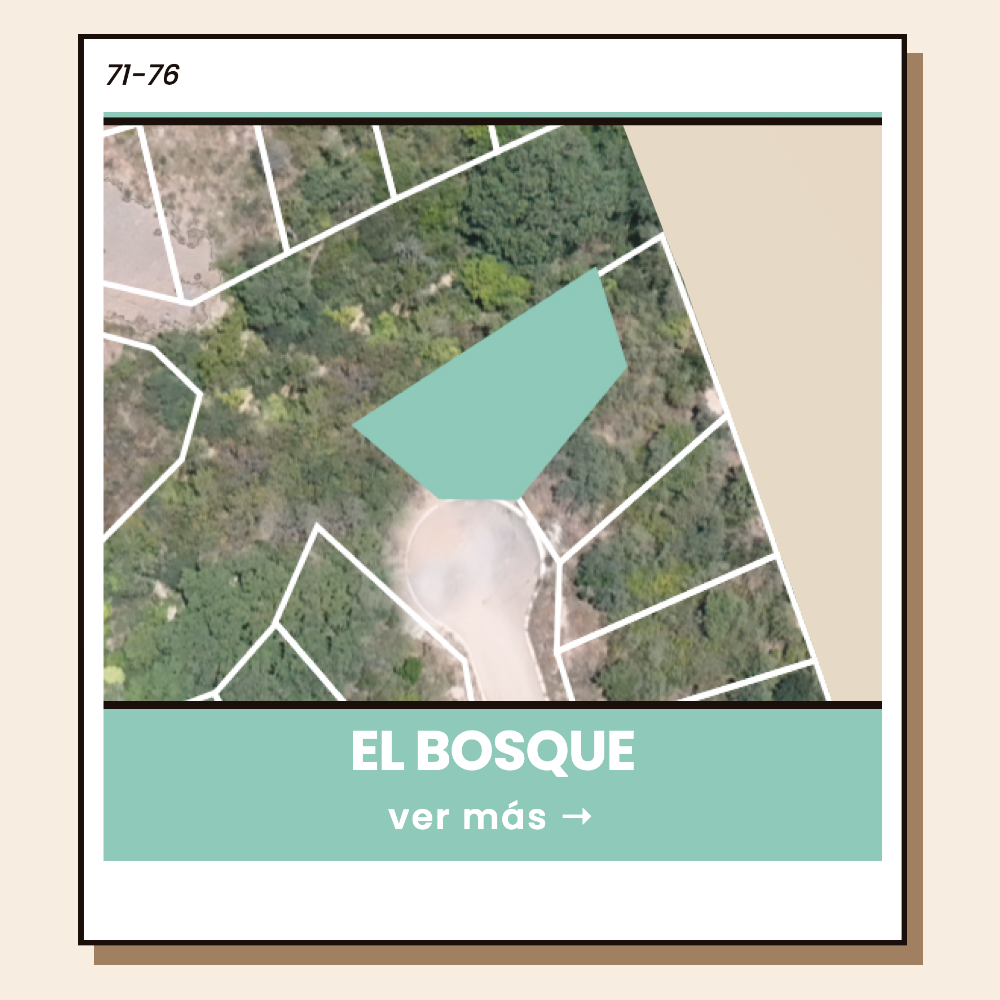
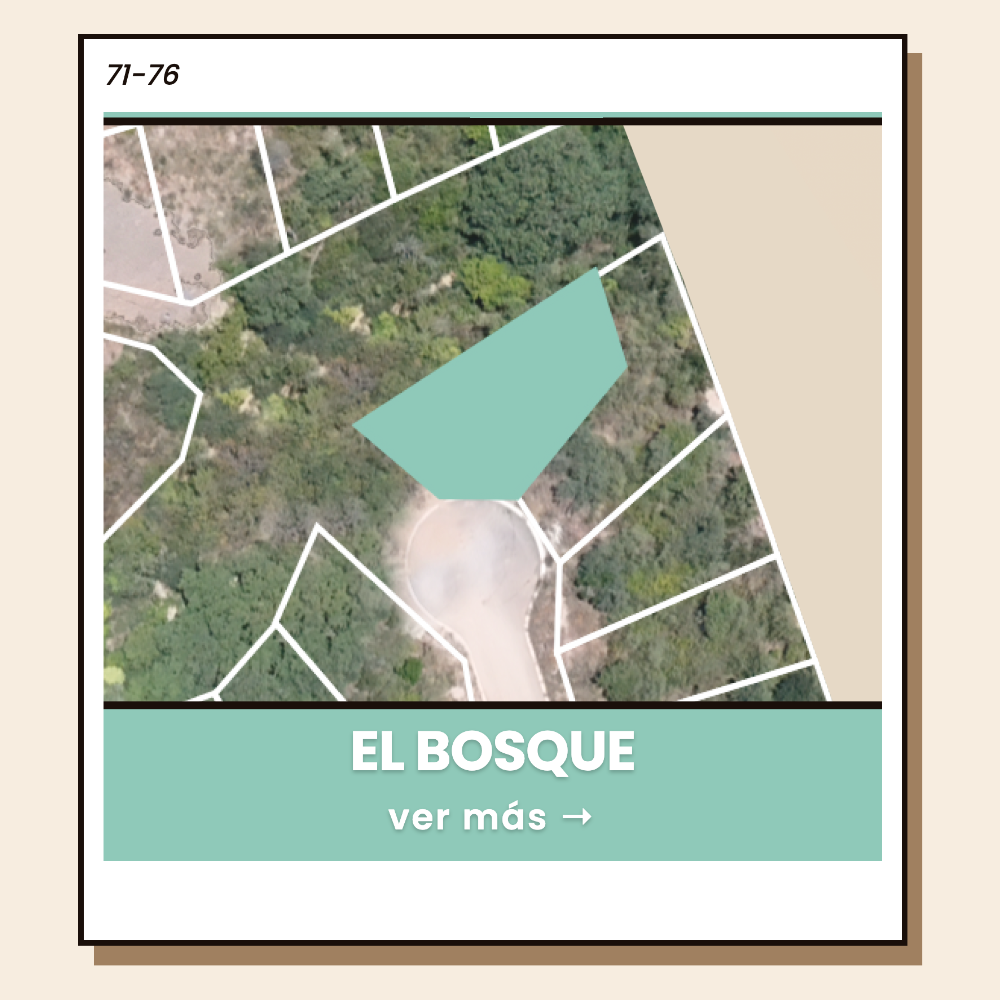
dropshadow

diff --git a/elbosque.html b/elbosque.html
@@ -193,8 +193,8 @@
     }
     .card-top-line { height: 5px; background: linear-gradient(to bottom, var(--red) 0px, var(--red) 3px, var(--black) 3px, var(--black) 5px); border-radius: 2px 2px 0 0; }
     .card-band.bottom { border-top: 1.5px solid var(--black); padding: 8px 8px 10px; }
-    .card-band .main-title { font-size: 20px; letter-spacing: 2px; display: block; }
-    .card-band .subtitle   { font-size: 10px; letter-spacing: 1px; opacity: 0.88; display: block; margin-top: 2px; font-style: italic; }
+    .card-band .main-title { font-size: 20px; letter-spacing: 2px; display: block; text-shadow: 0 1px 2px rgba(0,0,0,0.25); }
+    .card-band .subtitle   { font-size: 10px; letter-spacing: 1px; opacity: 0.88; display: block; margin-top: 2px; font-style: italic; text-shadow: 0 1px 2px rgba(0,0,0,0.25); }
 
     /* ── PANELS ── */
     .card-panel          { display: none; }
@@ -225,6 +225,7 @@
       font-size: 13px; padding: 4px 9px; border-radius: 2px;
       letter-spacing: 0.5px;
       border: 1px solid rgba(255,255,255,0.3);
+      text-shadow: 0 1px 2px rgba(0,0,0,0.25);
     }
     .badge-size {
       position: absolute; top: 8px; right: 8px;
@@ -232,6 +233,7 @@
       font-size: 13px; padding: 4px 9px;
       border: 1px solid var(--tan); border-radius: 2px;
       letter-spacing: 0.5px;
+      text-shadow: 0 1px 2px rgba(0,0,0,0.12);
     }
     .card-data-strip {
       text-align: center; font-size: 11px;
